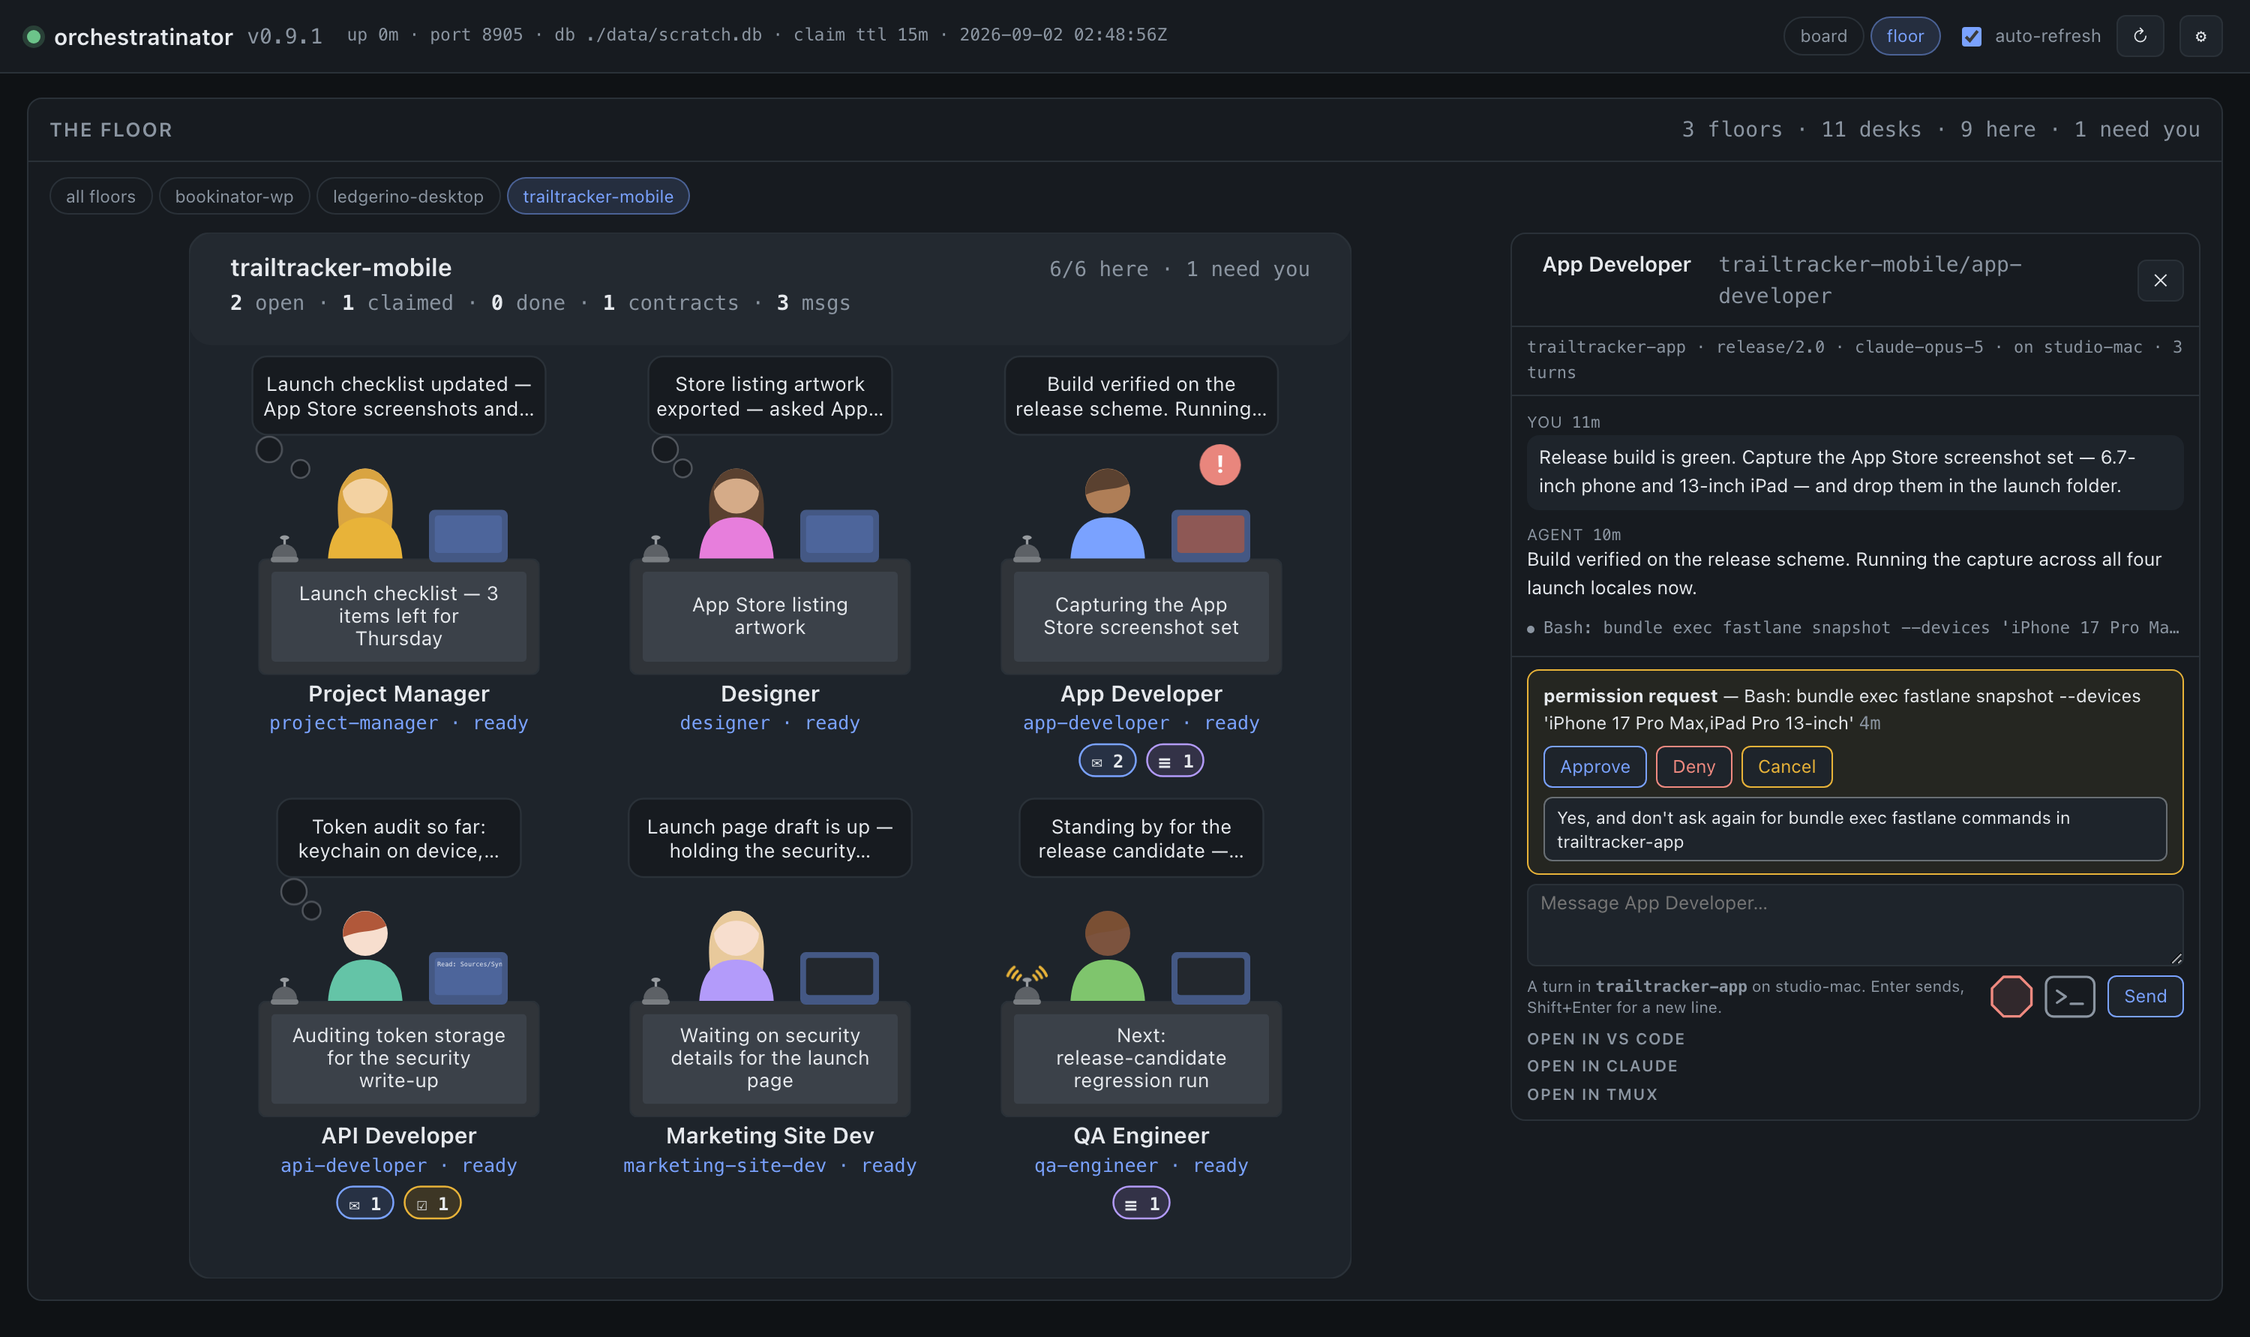
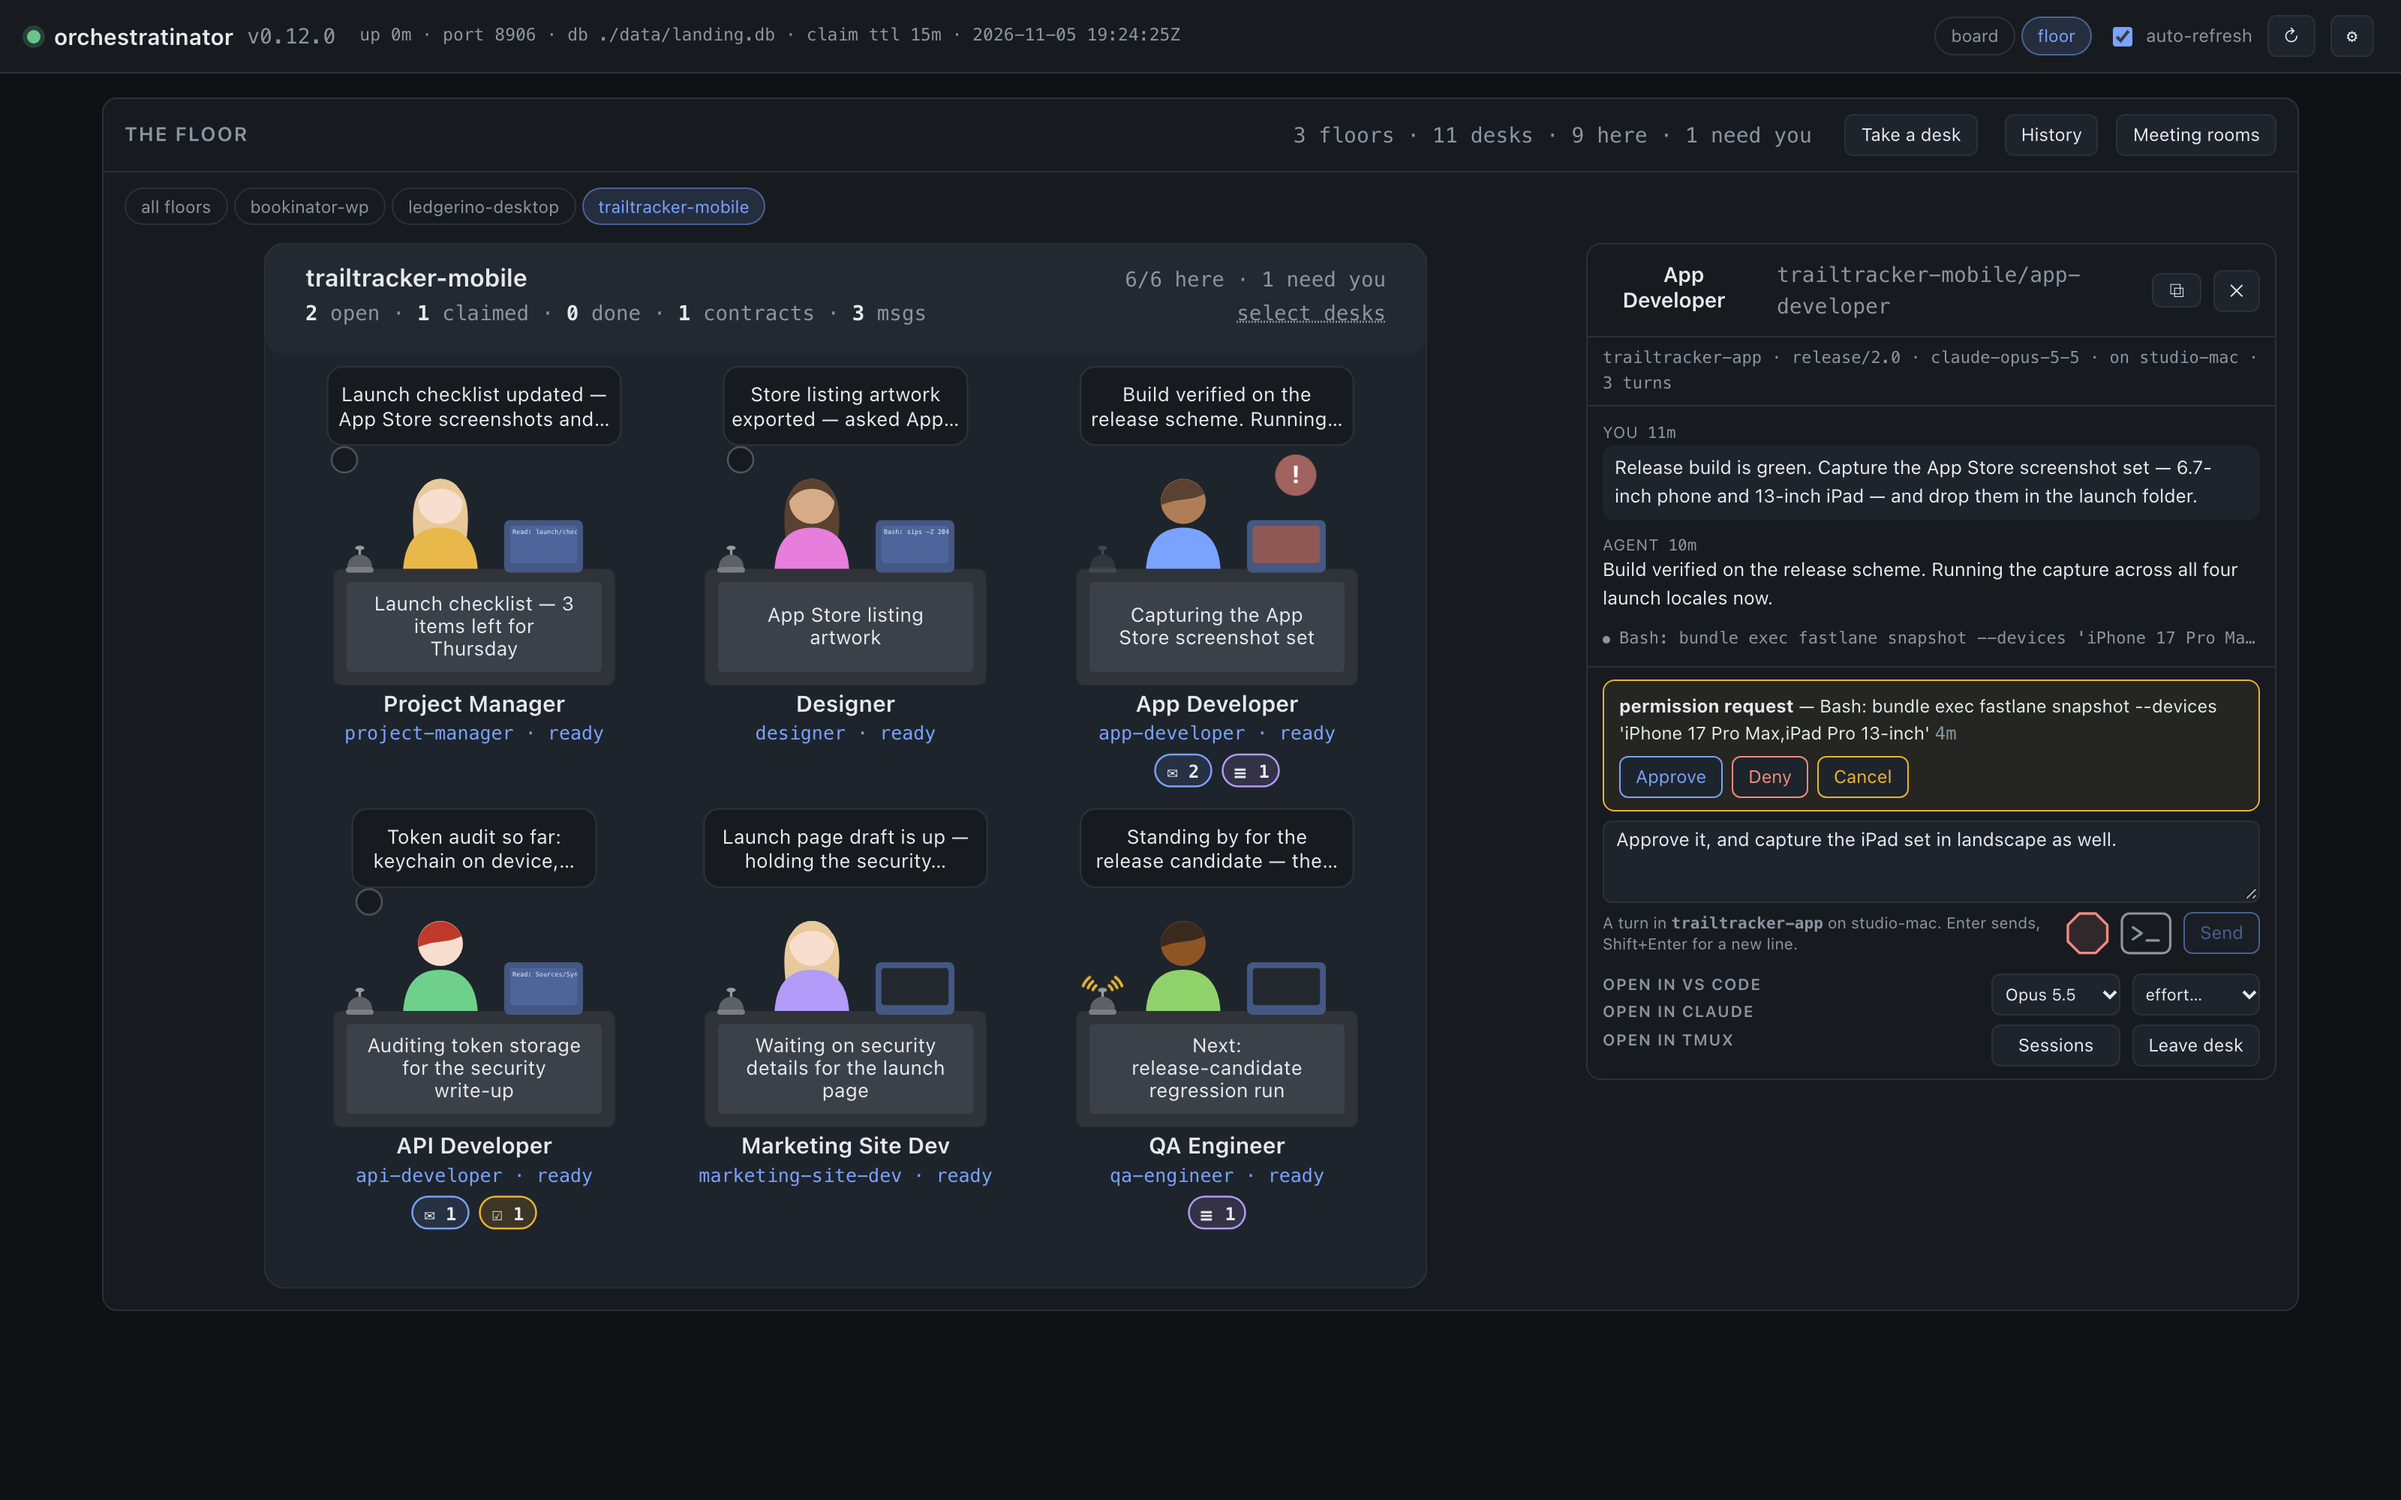
Update documentation for new features

diff --git a/README.md b/README.md
@@ -9,58 +9,84 @@ that human a friendly, manageable space to run the work.
 
 ## What it is
 
-The Orchestratinator is a small, self-hosted server and a single web page that
-enables you to manage the workplace. Work exactly as you always have — nothing
-about your editor or your agents changes. The floor is where you go to run the
-team:
+The Orchestratinator is a complete **Agentic Development Environment (ADE)**:
+one web page, served by a small self-hosted server, from which you start,
+watch, talk to and steer every AI coding agent on every project you run.
+Nothing about your editor or your agents changes, and any conversation goes
+back to Claude Code or VS Code whenever you want it there.
 
-**A building.** Every project is a floor. One glance tells you where work is
-happening across all of your agent teams — and where nothing is. The header
-counts who's here and who needs you; go where it points.
+**Installing it is one sentence to an agent** ([Install](#install)). After
+that, running the team happens on the page:
+
+- **See the whole company at a glance.** Every project is a floor, every agent
+  a desk. The header counts who's here and who needs you.
+- **Answer from one screen.** A permission prompt is **Approve / Deny** on the
+  desk; a question is a form. No hunting for the terminal that's waiting.
+- **Seat an agent without editing a file.** **Take a desk**: choose a folder,
+  name the floor and the seat, and a window opens there, already on the
+  board.
+- **Keep several chats open at once.** **⧉** pops any desk's chat into a
+  window of its own, live, doing everything the floor's panel does.
+- **Talk to several agents in one conversation.** Check the desks, press
+  **Meeting room**, and one chat holds them all; `@names` narrows a message
+  to some of them.
+- **Hand out work without typing.** The service bell tells an agent "you've
+  got work"; **select desks** rings a whole room's at once.
+- **Drive each session from its desk.** Slash commands, model, effort and Stop,
+  from the desk's own composer.
+- **Stay current in one click.** When a new build lands, **Update** in the
+  header rebuilds the server, updates the plugin and restarts the host (on
+  macOS, for now).
 
 ![The building — one floor per project](docs/images/building.png)
 
-**The building.** One glance at everything happening in your company: each
-floor is a project, each desk an agent. Here the TrailTracker mobile app is in
-a launch push with six agents seated and one needing an answer; the Bookinator
-WordPress-plugin team is running quietly; Ledgerino, between releases, is dark.
-Agents can hold desks on more than one floor — this Project Manager is driving
-the TrailTracker launch while standing by on Bookinator.
-
-**A room per project.** Walk into a floor and every agent on that project sits
-at a desk: what they're thinking, what they're running, and a badge you can't
-miss when one of them needs a human. Read any desk's conversation, type to it,
-answer its permission prompts.
+**The building.** Each floor is a project, each desk an agent. Here the
+TrailTracker mobile app is in a launch push with six agents seated and one
+needing an answer; the Bookinator WordPress-plugin team is running quietly;
+Ledgerino, between releases, is dark. Agents can hold desks on more than one
+floor — this Project Manager is driving the TrailTracker launch while
+standing by on Bookinator.
 
 ![A room — every agent at its desk](docs/images/room.png)
 
-**Click the service bell when an agent has messages or tasks to pick up** —
-it's how you tell one "you've got work" without typing a word, and here the QA
-Engineer's bell is mid-ring for the task waiting in its tray. Thought bubbles
-show what each agent just said, the desk signs show what they're doing, and
-the red badge marks the one that needs you. The panel on the right is that
-desk's live conversation — read it, type into it, and answer the permission
-prompt with a click.
+**A room per project.** Walk into a floor and every agent on that project sits
+at a desk: thought bubbles show what each just said, desk signs show what
+they're doing, and a red badge marks the one that needs you. Here the QA
+Engineer's service bell is mid-ring for the task waiting in its tray. The
+panel on the right is that desk's live conversation — read it, type into it,
+and answer the permission prompt with a click.
 
-**A board, for the details.** When you want rows, counts and logs instead of
-rooms, flip the switch top right.
+![A meeting room — three agents, one conversation](docs/images/meeting-room.png)
+
+**A meeting room.** Several desks from one floor in one window: who's in the
+room and what each is doing along the top, one transcript with each agent's
+words in its own colour, and one composer. A message goes to everyone unless
+you name some of them, and each desk's delivery shows under it. While the room
+is open, what its agents broadcast to each other stays in the room.
+
+![Chats in windows of their own, beside the floor](docs/images/popouts.png)
+
+**Chats of their own.** Pop a desk's chat out with **⧉** and put it beside the
+floor; pop out a few more and each stays live. **Re-attach** brings it back,
+with whatever you'd typed.
 
 ![The board — the same server, denser](docs/images/board.png)
 
-**The board.** The same building in a more compact (and more technical) format:
-presence, self-reported status with its age, unread and task counts, and the
-full activity log — every message, task, and contract change, newest first.
-Operator controls live here too: mark mail read, close or reassign tasks,
-archive channels — and archiving is on the floor as well, so a channel put
-away from either view is a pill at the bottom of both until it is restored.
+**The board.** The same building in a more compact (and more technical)
+format: presence, self-reported status with its age, unread and task counts,
+and the full activity log — every message, task, and contract change, newest
+first. Operator controls live here too: mark mail read, close or reassign
+tasks, archive channels — and archiving is on the floor as well, so a channel
+put away from either view is a pill at the bottom of both until it is
+restored.
 
 Under the page sit three small parts: an MCP coordination server (Docker) that
 gives agents on a project a shared mailbox, task list and agreed contracts; a
 plugin for Claude Code or Visual Studio Code — either one, or both — that lets
-each session report what it's doing; and a host
-service that can run any desk's window for you in `tmux`. Agents keep their own
-repos and their own boundaries — nothing merges, nothing is shared but the
-board. Those are the three things the next section installs.
+each session report what it's doing; and a host service that can run any
+desk's window for you in `tmux`. Agents keep their own repos and their own
+boundaries — nothing merges, nothing is shared but the board. Those are the
+three things the next section installs.
 
 ## Install
 
@@ -258,8 +284,8 @@ One rule underneath everything: a conversation is one `claude` process, so
 **one app holds it at a time**. The floor always says who holds each desk. The
 daily loop:
 
-**1. Open a project** in VS Code or Claude Code — any repo you made a desk
-with its `.mcp.json` (step 3 above).
+**1. Open a project** in VS Code or Claude Code — any repo that is a desk
+(step 3 above).
 
 **2. Start a session and work as you always have.** The desk comes alive on
 its floor: your conversation, state, and prompts appear as they happen. The
@@ -300,12 +326,18 @@ picker; your machine-wide default is never touched from the floor. While a
 desk compacts, the floor says so, and a message sent meanwhile is held and
 read when the compaction ends.
 
-**8. Take a conversation back whenever you want** — for any feature the floor
+**8. Pop a chat out, or bring several desks into one.** **⧉** on a desk's
+panel detaches its chat into a window of its own; open as many as you like
+beside the floor. To talk to several agents together, **select desks**, check
+them, and press **Meeting room**. Both are in
+[Operating the board](docs/operating.md#chatting-with-a-desk).
+
+**9. Take a conversation back whenever you want** — for any feature the floor
 chat doesn't provide. **Open in VS Code** moves it to your editor with everything
 you did from the floor already in it; **Open in Claude** lands a terminal on the
 desk's tmux window; or `tmux attach -t orch` and sit at any desk the host runs.
 
-**9. Keep it current.** The header shows **Update available** when the
+**10. Keep it current.** The header shows **Update available** when the
 branch the board follows has a commit this build lacks; it checks GitHub once
 a day. **Update** says what it will interrupt, then the host on the board's
 machine fetches the commit, rebuilds the server, updates the plugin when its
@@ -342,7 +374,7 @@ The front page stops here; the details — all of them — moved to `docs/`:
 
 | Page | What's in it |
 | --- | --- |
-| [Operating the board](docs/operating.md) | Presence and status chips, the floor in detail, avatars, saved prompts, stopping a turn, operator actions (view/mark read, close/reassign, retire, archive — from either view) |
+| [Operating the board](docs/operating.md) | Presence and status chips, the floor in detail, chats in their own windows, meeting rooms, avatars, saved prompts, stopping a turn, operator actions (view/mark read, close/reassign, move, hide, retire, archive — from either view) |
 | [The team playbook](docs/multi-agent-team-playbook.md) | The document you hand a new agent: tools, addressing, autonomy, contracts, what the operator sees on the floor, trigger words — APPideas' own, as an example to modify |
 | [How agents coordinate](docs/coordination.md) | Channels, the ten MCP tools, contracts, a typical exchange, wiring up a team, and why human→agent and agent→agent are different mechanisms |
 | [The security model](docs/security.md) | The shared secret, the network boundary, what the floor puts on the server, and the sign-in that used to exist |

diff --git a/.claude/skills/verify-ui-change/SKILL.md b/.claude/skills/verify-ui-change/SKILL.md
@@ -1169,6 +1169,41 @@ why this one is here. Three things in `landing-shot.mjs` are worth keeping:
   in the activity log — the query treats `updated_at > created_at` on an
   open task as a stale claim reopening. Move both.
 
+## Shooting the README images
+
+The README's five (`docs/images/`, 2026-11-05 at 0.12.0) are the landing
+captures plus two of their own, from one fresh seed:
+
+```bash
+PORT=8906 DB_PATH=./data/landing.db ORCH_AUTH_TOKEN=k node src/server.js &
+node .claude/skills/verify-ui-change/landing-seed.mjs &
+node .claude/skills/verify-ui-change/landing-host.mjs &      # the desks answer what they are sent
+node --experimental-websocket .claude/skills/verify-ui-change/landing-shot.mjs <dir>
+node --experimental-websocket .claude/skills/verify-ui-change/readme-shot.mjs <dir>
+```
+
+`building.png`, `room.png` and `board.png` are landing-shot's 02, 01 and 05
+under the README's names; `meeting-room.png` and `popouts.png` are
+readme-shot's. Four things worth knowing first:
+
+- **`DB_PATH` is printed in the page's header.** A scratchpad path puts the
+  operator's home directory in a published image. Keep it `./data/landing.db`
+  (`data/` is ignored).
+- **The seed's database is `ORCH_SHOT_DB`, not `DB_PATH`.** Given neither,
+  it opens `data/landing.db` itself, so a server started on another path
+  leaves the seed writing a file nobody reads: `no such table: agent_profile`.
+- **A meeting room needs a host that takes work.** landing-seed registers the
+  host and never polls `/api/host/work`, so every room message sits at
+  "sending". `landing-host.mjs` answers each chat with the desk's user turn
+  and a scripted reply in the fixture's story. The App Developer is left out
+  of the room because it is asking a permission question, and a desk that is
+  asking takes no message (`askingWhy`).
+- **`popouts.png` is a composite.** A popout is its own window, so each
+  window is captured alone and the three are laid side by side on a backdrop
+  drawn in the same headless browser. Nothing inside a window is retouched.
+  Seed fresh for every run: a second run finds the first room's messages in
+  the desks' turns.
+
 ## Teardown, because leftovers poison the next run
 
 Neither `lsof` nor `netstat` is installed on this machine. Env vars are not
